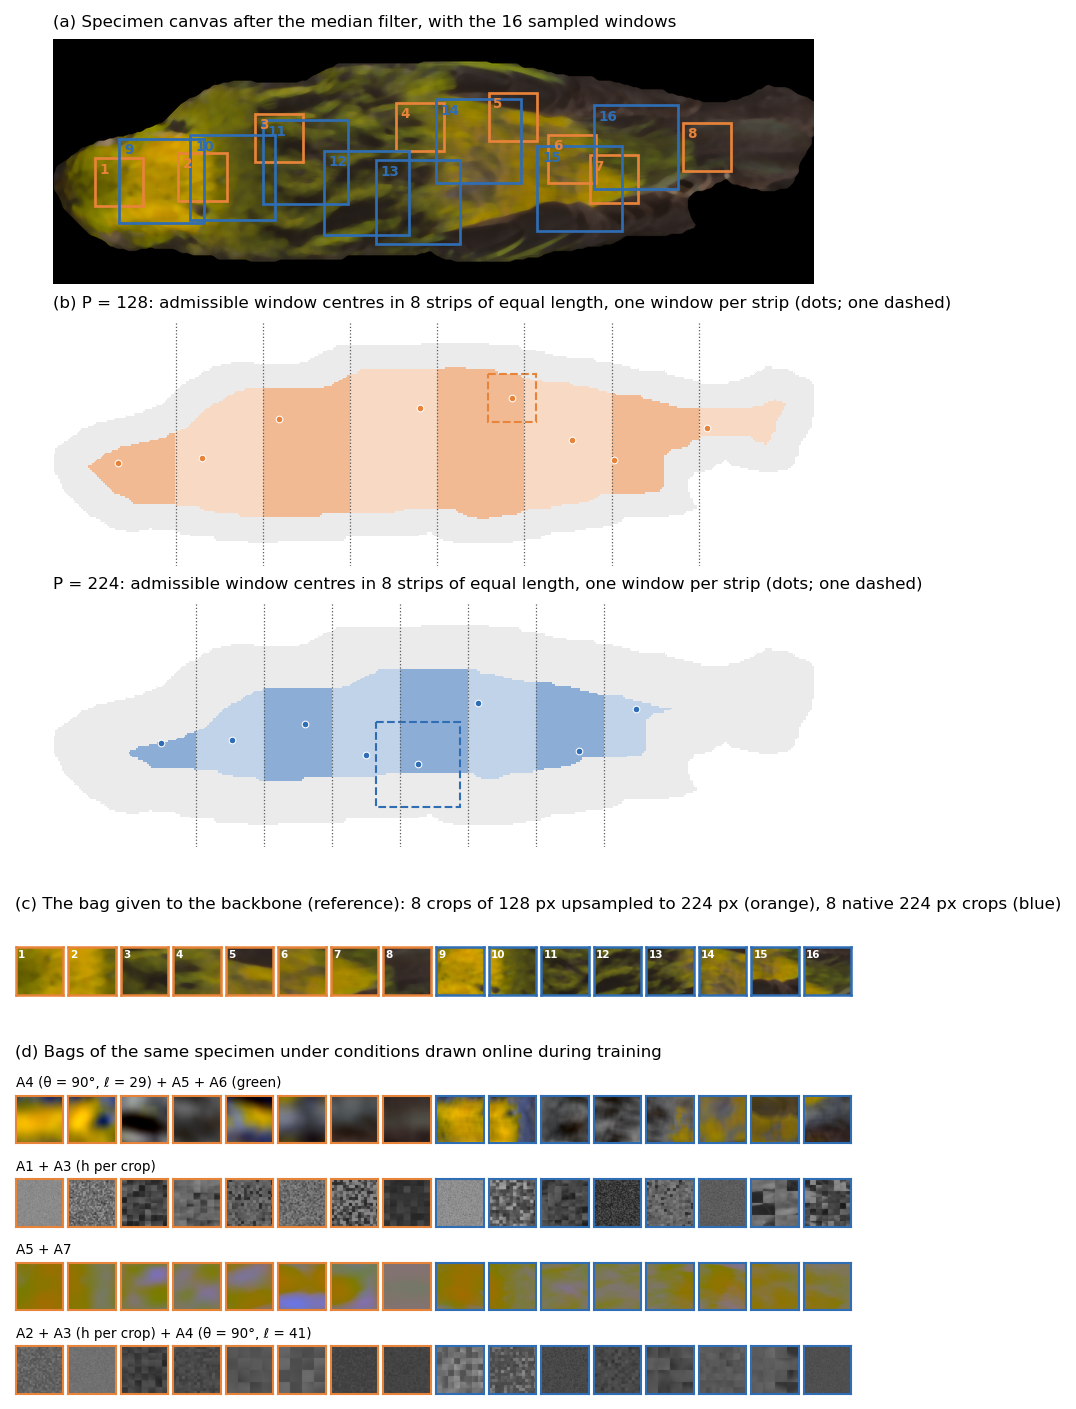
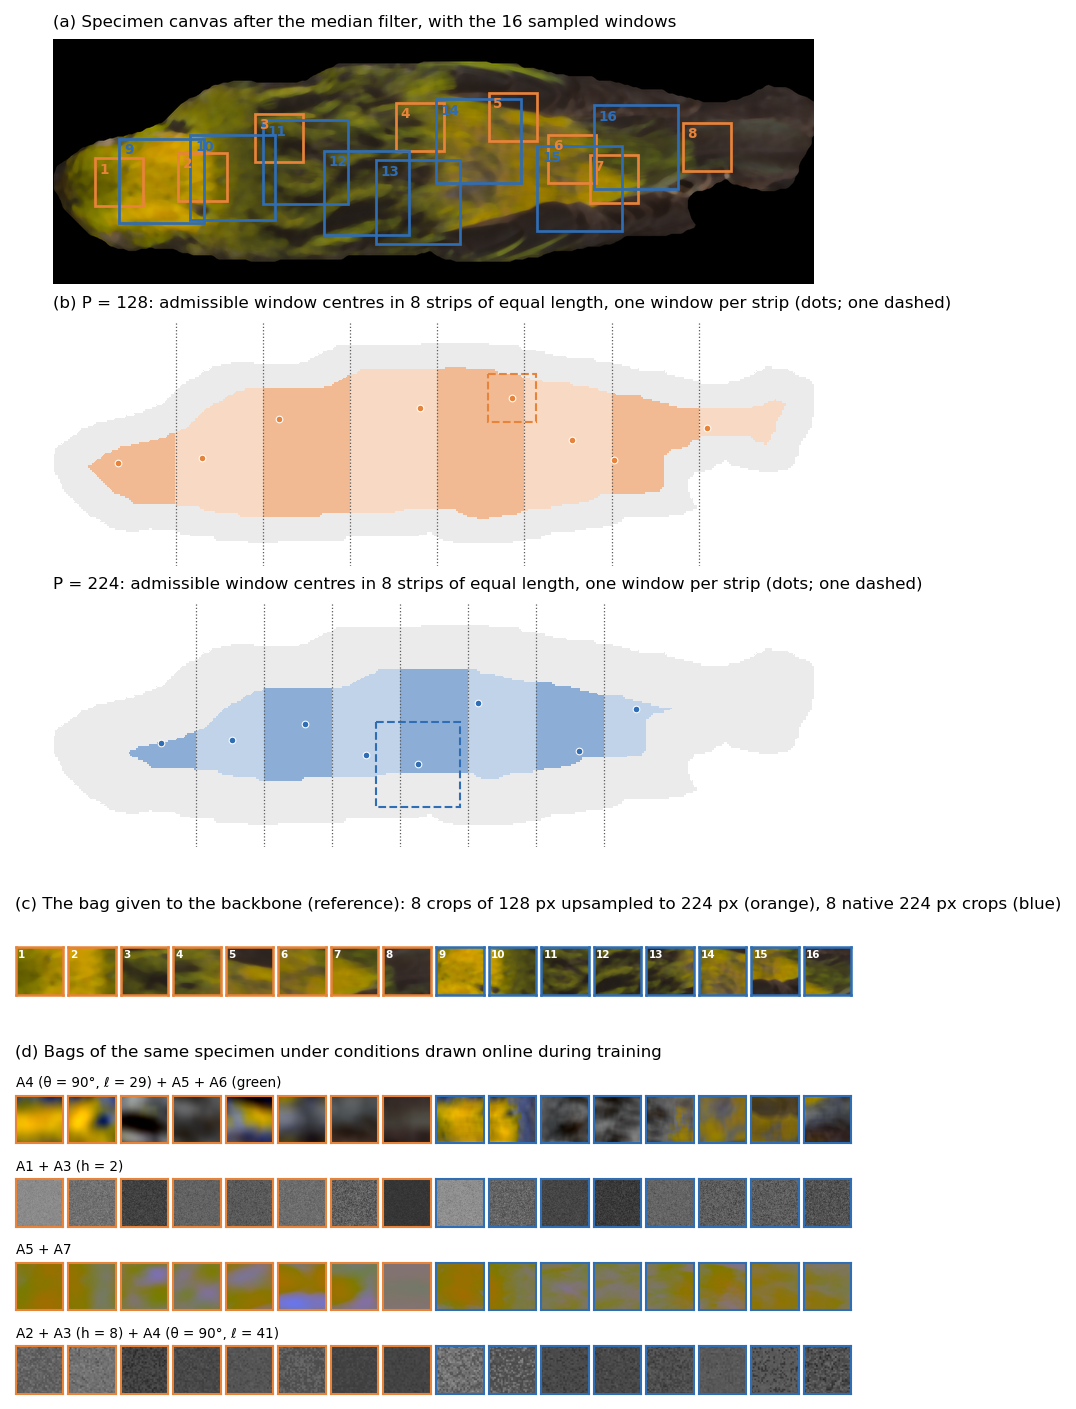
modif to protocole

diff --git a/report/variance_crop.py b/report/variance_crop.py
@@ -1,7 +1,8 @@
-from __future__ import annotations
-
+import os
+import sys
+import argparse
 from pathlib import Path
-from typing import Any, Dict, Optional
+from typing import Any, Dict
 
 import numpy as np
 import pandas as pd
@@ -10,15 +11,18 @@ import torch.nn.functional as F
 from torch.utils.data import DataLoader
 from tqdm import tqdm
 
-from src.datasets import folds
-from src.datasets.eval_dataset import EvalDataset
-from src.model.bagmodel import BagModel
-from . import metrics as metrics_mod
+from paths import PROJECT_ROOT
 
-import argparse
-from pathlib import Path
+sys.path.insert(0, PROJECT_ROOT)
+from src.configio import load_config  # noqa: E402
+from src.datasets import folds  # noqa: E402
+from src.datasets.eval_dataset import EvalDataset  # noqa: E402
+from src.evaluation import metrics as metrics_mod  # noqa: E402
+from src.model.bagmodel import BagModel  # noqa: E402
 
-from src.configio import load_config
+# Crop-sampling variance: the clean images of one fold scored with N_DRAWS independent crop draws
+N_DRAWS = 10
+
 
 # ── Checkpoint ───────────────────────────────────────────────────────────────
 def load_checkpoint(model: BagModel, checkpoint_path: Path) -> None:
@@ -35,90 +39,77 @@ def collect_predictions(cfg: Dict[str, Any], checkpoint_path: Path, fold: int) -
     load_checkpoint(model, checkpoint_path)
     model.eval()
 
-    
-
+    valid_df = folds.load_fold(cfg, fold, "valid")
+    family_by_stem = dict(zip(valid_df["stem"], valid_df["family"]))
     rows = []
     with torch.no_grad():
-        for crops_number in range(10):
-            valid_df = folds.load_fold(cfg, fold, "valid")
-            dataset = EvalDataset(valid_df, cfg, draw = crops_number)
-
+        for crops_number in range(N_DRAWS):
+            dataset = EvalDataset(valid_df, cfg, draw=crops_number)
             dataset._items = [it for it in dataset._items if it[1].name == "reference"]
-            loader = DataLoader(dataset, batch_size=cfg.get("micro_batch_size", 16), shuffle=False, num_workers=cfg["num_workers"])
-            
-            family_by_stem = dict(zip(valid_df["stem"], valid_df["family"]))
-            
-            for batch in tqdm(loader, desc=f"fold {fold} eval", unit="bag"):
+            loader = DataLoader(dataset, batch_size=cfg.get("micro_batch_size", 16), shuffle=False,
+                                num_workers=cfg["num_workers"])
+
+            for batch in tqdm(loader, desc=f"fold {fold} draw {crops_number}", unit="bag"):
                 crops = batch["crops"].to(device)
-                cls_logits, reg_logits, _attention = model(crops)
+                cls_logits, reg_logits, attention = model(crops)
                 cls_prob = torch.sigmoid(cls_logits).cpu().numpy()
                 reg_prob = F.softmax(reg_logits, dim=-1).cpu().numpy()
                 habitat = batch["habitat"].numpy().copy()
 
                 for i, stem in enumerate(batch["stem"]):
-                    rows.append(
-                        {
-                            "stem": stem,
-                            "family": family_by_stem[stem],
-                            "condition_name": batch["condition_name"][i],
-                            "habitat": habitat[i],
-                            "cls_prob": cls_prob[i],
-                            "reg_prob": reg_prob[i],
-                            "crops_number" : crops_number,
-                            "meta": batch["positions"][i].numpy().copy(),
-                            "attention" : _attention[i].cpu().numpy()
-                        }
-                    )
+                    rows.append({
+                        "stem": stem,
+                        "family": family_by_stem[stem],
+                        "condition_name": batch["condition_name"][i],
+                        "habitat": habitat[i],
+                        "cls_prob": cls_prob[i],
+                        "reg_prob": reg_prob[i],
+                        "crops_number": crops_number,
+                        "meta": batch["positions"][i].numpy().copy(),
+                        "attention": attention[i].cpu().numpy(),
+                    })
     return pd.DataFrame(rows)
 
 
 # ── Summarise ────────────────────────────────────────────────────────────────
-def summarise(predictions: pd.DataFrame, n_bootstrap: int, seed: int) -> pd.DataFrame:
-    rng = np.random.default_rng(seed)
-
+def summarise(predictions: pd.DataFrame) -> pd.DataFrame:
     summaries = []
     for crops_number, group in predictions.groupby("crops_number"):
-        group = group.set_index("stem")
         support = np.stack([(h > 0).astype(int) for h in group["habitat"]])
         cls_prob = np.stack(group["cls_prob"])
         reg_prob = np.stack(group["reg_prob"])
         habitat = np.stack(group["habitat"])
-
-        row = {
+        summaries.append({
             "crops_number": crops_number,
             "n_images": len(group),
             "macro_auc": metrics_mod.macro_auc(support, cls_prob),
             "macro_reg_auc": metrics_mod.macro_auc(support, reg_prob),
             "macro_ap": metrics_mod.macro_average_precision(support, cls_prob),
             "mean_kl": metrics_mod.mean_kl(habitat, reg_prob),
-        }
-        summaries.append(row)
+        })
     summaries = pd.DataFrame(summaries)
-
-    print("AUC variance")
-    print(summaries["macro_reg_auc"].var())
-
-    return pd.DataFrame(summaries)
+    print(f"AUC variance across draws: {summaries['macro_reg_auc'].var():.3g}")
+    return summaries
 
 
-
+# ── Main ─────────────────────────────────────────────────────────────────────
+# Usage (from report/): python variance_crop.py --checkpoint ../runs/<run>/checkpoints/best.pt --fold 0
 def main() -> None:
     parser = argparse.ArgumentParser()
-    parser.add_argument("--config", default="configs/eval.yaml")
+    parser.add_argument("--config", default=os.path.join(PROJECT_ROOT, "configs", "eval.yaml"))
     parser.add_argument("--checkpoint", required=True)
     parser.add_argument("--fold", type=int, required=True)
     args = parser.parse_args()
 
     cfg = load_config(args.config)
     checkpoint_path = Path(args.checkpoint)
-    run_dir = checkpoint_path.parents[1]  # .../<run_name>/checkpoints/best.pt -> .../<run_name>
-    out_dir = run_dir / "eval"
+    out_dir = checkpoint_path.parents[1] / "eval"  # .../<run>/checkpoints/best.pt -> .../<run>/eval
     out_dir.mkdir(parents=True, exist_ok=True)
 
     predictions = collect_predictions(cfg, checkpoint_path, args.fold)
-    predictions.to_pickle(out_dir / "predictions_variance.pkl")  # habitat/prob columns hold arrays, not CSV-friendly
+    predictions.to_pickle(out_dir / "predictions_variance.pkl")  # array columns, not CSV-friendly
 
-    summary = summarise(predictions, n_bootstrap=cfg["n_bootstrap"], seed=cfg.get("seed", 0))
+    summary = summarise(predictions)
     summary.to_csv(out_dir / "summary_variance.csv", index=False)
     print(summary.to_string(index=False))
     print(f"\nwrote {out_dir / 'summary_variance.csv'} and {out_dir / 'predictions_variance.pkl'}")

diff --git a/docs/methods_training.tex b/docs/methods_training.tex
@@ -123,9 +123,9 @@ Code & Operation & Channel removed & Level & Parameter (drawn per) \\
 \midrule
 $A_1$ & $(L^*, a^*, b^*) \mapsto (L^*, 0, 0)$ & chromaticity & image & -- \\
 $A_2$ & $A_1$, then $L^*$ matched to a population histogram & chromaticity and individual lightness level and contrast & image & -- \\
-$A_3$ & shuffle of $h \times h$ blocks & spatial arrangement above scale $h$ & crop & $h \in \{1, \dots, 56\}$ (crop) \\
+$A_3$ & shuffle of $h \times h$ blocks & spatial arrangement above scale $h$ & crop & $h \in \{1, \dots, 56\}$ (bag) \\
 $A_4$ & 1-D box blur along or across the body & structure in one direction & image & $\theta$, $\ell$ (bag) \\
-$A_5$ & amplitude spectrum set to a reference power law & distribution of energy across scales & crop & $\alpha^\star$ (crop) \\
+$A_5$ & amplitude spectrum set to a reference power law & distribution of energy across scales & crop & $\alpha^\star$ (bag) \\
 $A_6$ & $(L^*, a^*, b^*) \mapsto (L^*, 0, 0)$ on one colour category & one named hue & image & category (bag) \\
 $A_7$ & $(L^*, a^*, b^*) \mapsto (50, a^*, b^*)$ & lightness & image & -- \\
 \bottomrule
@@ -196,7 +196,14 @@ because blocks following the aspect ratio of the bird would carry body shape
 into the image. The permutation is applied to the crop and not to the whole
 image: permuting the canvas would move plumage between body regions and leave
 most crops inside a single block, intact.
-% src/ablations/a3_block_permutation.py; h and the permutation are drawn independently for each crop
+The block side is drawn once per bag and shared by its 16 crops, while the
+permutation is drawn independently for each crop. A shared $h$ makes the
+severity of $A_3$ a property of the bag: with one $h$ per crop, a bag would mix
+nearly intact crops ($h = 56$) with destroyed ones ($h = 1$), its condition
+would be an average over severities, and the attention could rely on the least
+degraded crops to sidestep the ablation. Drawing the permutation per crop adds
+no severity, only sixteen realisations of the same condition.
+% src/ablations/a3_block_permutation.py, src/chain.py: h per bag (meta A3_h), permutation per crop
 
 \paragraph{$A_4$: directional blur.}
 The canvas is convolved with a normalised 1-D box kernel of length $\ell$,
@@ -229,8 +236,9 @@ gain $G(\mathbf{k}) = A^\star(r) / \bar A(r)$, with $G = 1$ at the DC term, so
 that phase and mean brightness are unchanged. The target slope is the
 population median for the crop size, measured by least squares in log--log
 space over $r \in [2, 9]$ on reference crops ($\bar\alpha_{224} = 1.49$,
-$\bar\alpha_{128} = 2.19$), plus a uniform jitter,
-$\alpha^\star = \bar\alpha_P + \mathcal{U}(-0.1, 0.1)$. The two sizes need two
+$\bar\alpha_{128} = 2.19$), plus a uniform jitter drawn for every crop,
+$\alpha^\star = \bar\alpha_P + u$ with $u \sim \mathcal{U}(-0.1, 0.1)$, so that
+the residual between the obtained and the target slope is not the same for every crop. The two sizes need two
 targets because they do not show the plumage at the same apparent scale. The
 band stops below the median filter cut-off so that the slope describes plumage
 and not the filter.
@@ -282,8 +290,9 @@ whether the chromatic signal is usable on its own and not only necessary.
   their upsampling.
   (d)~Four bags of the same specimen whose conditions were drawn by the online
   sampler of Section~\ref{sec:online}, each with new positions; all 16 crops of a
-  bag share the condition, while the $A_3$ block size and the $A_5$ target slope
-  vary from crop to crop.}
+  bag share the condition and its parameters (the $A_3$ block size, the $A_4$
+  kernel, the $A_6$ category); only the $A_3$ block permutation and the $A_5$
+  jitter differ between crops.}
   \label{fig:crops}
 \end{figure}
 
@@ -328,11 +337,13 @@ each of $A_3$, $A_4$, $A_5$; on average a bag carries $1.3$ ablations, and $20\%
 of bags are in the reference condition ($\mathcal{A} = \varnothing$).
 % src/ablations/combinations.py
 
-Parameters are drawn at the level where the ablation acts: once per bag for
-$A_4$ (one kernel for the canvas) and $A_6$ (one category, decided on the whole
-specimen), once per crop for $A_3$ (block side and permutation) and $A_5$
-(target slope); $A_1$, $A_2$ and $A_7$ have no parameter and are precomputed
-once per specimen.
+Every severity parameter of an ablation is drawn once per bag and shared by its 16
+crops, so that a bag is a single, well-defined condition: the kernel of $A_4$,
+the category of $A_6$ and the block side of $A_3$. Two draws are made per crop:
+the $A_3$ block permutation, a random arrangement rather than a severity, and the
+$A_5$ slope jitter, a small random offset ($\pm 0.1$) around the target slope,
+which itself depends on the crop size.
+$A_1$, $A_2$ and $A_7$ have no parameter and are precomputed once per specimen.
 % src/ablations/common.py: DRAWN_PER
 
 \paragraph{Sham control.}

diff --git a/src/chain.py b/src/chain.py
@@ -131,6 +131,13 @@ def build_bag(
     meta["positions"] = crop_specs
 
     # ── Steps 6-8: crop, resize, A3, A5 ──────────────────────────────────────
+    # A3 block side: one per bag, shared by the 16 crops; only the permutation is drawn per crop
+    a3_side = None
+    if "A3" in condition:
+        a3_side = fixed_a3_side if fixed_a3_side is not None else a3_block_permutation.draw_side(rng)
+        meta["A3_h"] = a3_side
+    # A5 slope jitter: drawn per crop (below), the only ablation parameter not shared by the bag
+
     crops = []
     crop_meta = []
     t_crop_extract = t_a3 = t_a5 = 0.0
@@ -145,16 +152,16 @@ def build_bag(
 
         if "A3" in condition:
             t0 = time.perf_counter()
-            h = fixed_a3_side if fixed_a3_side is not None else a3_block_permutation.draw_side(rng)
-            crop = a3_block_permutation.apply(crop, h, rng)
-            this_crop_meta["A3_h"] = h
+            crop = a3_block_permutation.apply(crop, a3_side, rng)
             t_a3 += time.perf_counter() - t0
 
         if "A5" in condition:
             t0 = time.perf_counter()
-            target_alpha = a5_spectral_slope.draw_target_alpha(size, rng)
+            a5_jitter = a5_spectral_slope.draw_alpha_jitter(rng)
+            target_alpha = a5_spectral_slope.target_alpha(size, a5_jitter)
             crop, a5_meta = a5_spectral_slope.apply(crop, target_alpha)
             this_crop_meta["A5"] = a5_meta
+            this_crop_meta["A5_jitter"] = a5_jitter
             t_a5 += time.perf_counter() - t0
 
         crops.append(crop)

diff --git a/report/copres_baseline.py b/report/copres_baseline.py
@@ -1,7 +1,9 @@
-import json, numpy as np, svlib
+import sys, json, numpy as np, svlib
+
+MODEL = sys.argv[1] if len(sys.argv) > 1 else "sham"  # output name: copres_baseline.json (sham) or copres_baseline_<model>.json
 
 # ── Load ─────────────────────────────────────────────────────────────────────
-d = svlib.load("sham")
+d = svlib.load(MODEL)
 H = np.stack(d.habitat.values).astype(float); P = np.stack(d.reg_prob.values).astype(np.float64)
 fams = np.array(sorted(d.family.unique())); fidx = np.searchsorted(fams, d.family.values)
 del d
@@ -12,7 +14,7 @@ CP = json.load(open(f"{svlib.SP}/copresence_check.json"))
 out = {}
 for a in range(10):
     for b in range(10):
-        if a == b or "auc" not in CP["sham"][f"{a},{b}"]:
+        if a == b or "auc" not in CP[MODEL][f"{a},{b}"]:
             continue
         m = H[:, a] > 0
         y = H[m, b] > 0
@@ -26,5 +28,5 @@ for a in range(10):
                                lo=float(np.nanpercentile(diff, 2.5)), hi=float(np.nanpercentile(diff, 97.5)))
 
 # ── Write ────────────────────────────────────────────────────────────────────
-json.dump(out, open(f"{svlib.SP}/copres_baseline.json", "w"))
+json.dump(out, open(f"{svlib.SP}/copres_baseline{'' if MODEL == 'sham' else '_' + MODEL}.json", "w"))
 print("done", len(out))

diff --git a/src/ablations/a5_spectral_slope.py b/src/ablations/a5_spectral_slope.py
@@ -102,10 +102,14 @@ def target_alpha_for_crop_source(source_size: int) -> float:
     raise ValueError(f"A5 only has a target for 128/224 source crops, got {source_size}")
 
 
-# Target slope for this crop size, jittered by +/- ALPHA_JITTER (uniform, per crop)
-def draw_target_alpha(source_size: int, rng: np.random.Generator) -> float:
-    base = target_alpha_for_crop_source(source_size)
-    return base + float(rng.uniform(-ALPHA_JITTER, ALPHA_JITTER))
+# Jitter on the target slope, uniform in +/- ALPHA_JITTER: drawn for every crop
+def draw_alpha_jitter(rng: np.random.Generator) -> float:
+    return float(rng.uniform(-ALPHA_JITTER, ALPHA_JITTER))
+
+
+# Target slope for this crop size: reference + jitter
+def target_alpha(source_size: int, jitter: float) -> float:
+    return target_alpha_for_crop_source(source_size) + jitter
 
 
 # ── Run as a script ──────────────────────────────────────────────────────────
@@ -115,7 +119,7 @@ if __name__ == "__main__":
     base = rng.integers(0, 256, size=(28, 28, 3)).astype(np.uint8)
     crop = np.kron(base, np.ones((8, 8, 1), dtype=np.uint8))
 
-    target = draw_target_alpha(224, rng)
+    target = target_alpha(224, draw_alpha_jitter(rng))
     out, meta = apply(crop, target)
 
     print(f"A5: reference target (224px crop) = {target_alpha_for_crop_source(224)}  drawn target = {target:.3f}")

diff --git a/scripts/fig_methods.py b/scripts/fig_methods.py
@@ -157,7 +157,7 @@ def condition_label(cond, meta: dict) -> str:
         elif code == "A6":
             parts.append(f"A6 ({meta['A6_category'].replace('_', ' ')})")
         elif code == "A3":
-            parts.append("A3 (h per crop)")
+            parts.append(f"A3 (h = {meta['A3_h']})")
         else:
             parts.append(code)
     return " + ".join(parts)

diff --git a/src/ablations/common.py b/src/ablations/common.py
@@ -24,9 +24,9 @@ INSERTION_LEVEL = {
 DRAWN_PER = {
     "A1": None,
     "A2": None,
-    "A3": "crop",
+    "A3": "bag",   # block side per bag; the permutation itself is drawn per crop
     "A4": "bag",
-    "A5": "crop",
+    "A5": "crop",  # slope jitter drawn per crop; the target also depends on crop size
     "A6": "bag",
     "A7": None,
 }

diff --git a/report/README.md b/report/README.md
@@ -36,7 +36,7 @@ The predictions are read from `runs/{main,sham}_fold{0,1,2}/eval/predictions.pkl
 | 7 | `pairwise_check.py` | `pairwise_check.json` | 4.2 pairwise matrix |
 | 8 | `within_bird_check.py` | `within_bird_check.json` | 4.4 (forest use within a bird) |
 | 9 | `copresence_check.py` | `copresence_check.json` | 4.3 second habitat (`MODELS=sham` to run one model) |
-| 10 | `copres_baseline.py` | `copres_baseline.json` | 4.3 "is detection specific?" check |
+| 10 | `copres_baseline.py` / `main` | `copres_baseline{,_main}.json` | 4.3 "is detection specific?" check (sham / main) |
 | 11 | `pairwise_clustering.py` | `pairwise_clustering.json` | 4.4 clustering into 5 groups |
 | 12 | `group_ablation.py` | `group_ablation.json` | 5.2 group pairs under every ablation, 5.1 summary over pairs |
 | 13 | `group_ovr_ablation.py main` / `presence` | `group_ovr_ablation_{main,presence}.json` | 5.1 group AUCs |
@@ -56,6 +56,8 @@ The predictions are read from `runs/{main,sham}_fold{0,1,2}/eval/predictions.pkl
 | 26 | `ablation_subsets_groups.py` / `viewsex` | `ablation_subsets_groups{,_viewsex}.{json,npz}` | 6.4–6.5 ablation costs per subset (bootstrap draws) |
 | 27 | `spatial_subsets.py` | `spatial_subsets.{json,npz}` | 6.4–6.5 spatial-structure upper bound |
 | 28 | `sexview_contrasts.py` | `sec6_4_view_sex.csv`, `sec6_5_dimorphism_A.csv`, `sec6_5_dimorphism_B.csv` | 6.4 and 6.5 tables (costs and paired contrasts) |
+
+Not in `run_all.sh` (GPU, one run at a time): `variance_crop.py --checkpoint ../runs/<run>/checkpoints/best.pt --fold <k>` scores the clean images of one fold with 10 independent crop draws and writes `predictions_variance.pkl` and `summary_variance.csv` to `runs/<run>/eval/` (crop-sampling variance of the AUC).
 
 Shared helpers (imported, not run on their own): `svlib.py` (loading, family bootstrap, group AUCs),
 `hist_baseline_fit.py` (training of the histogram model, an MLP).
